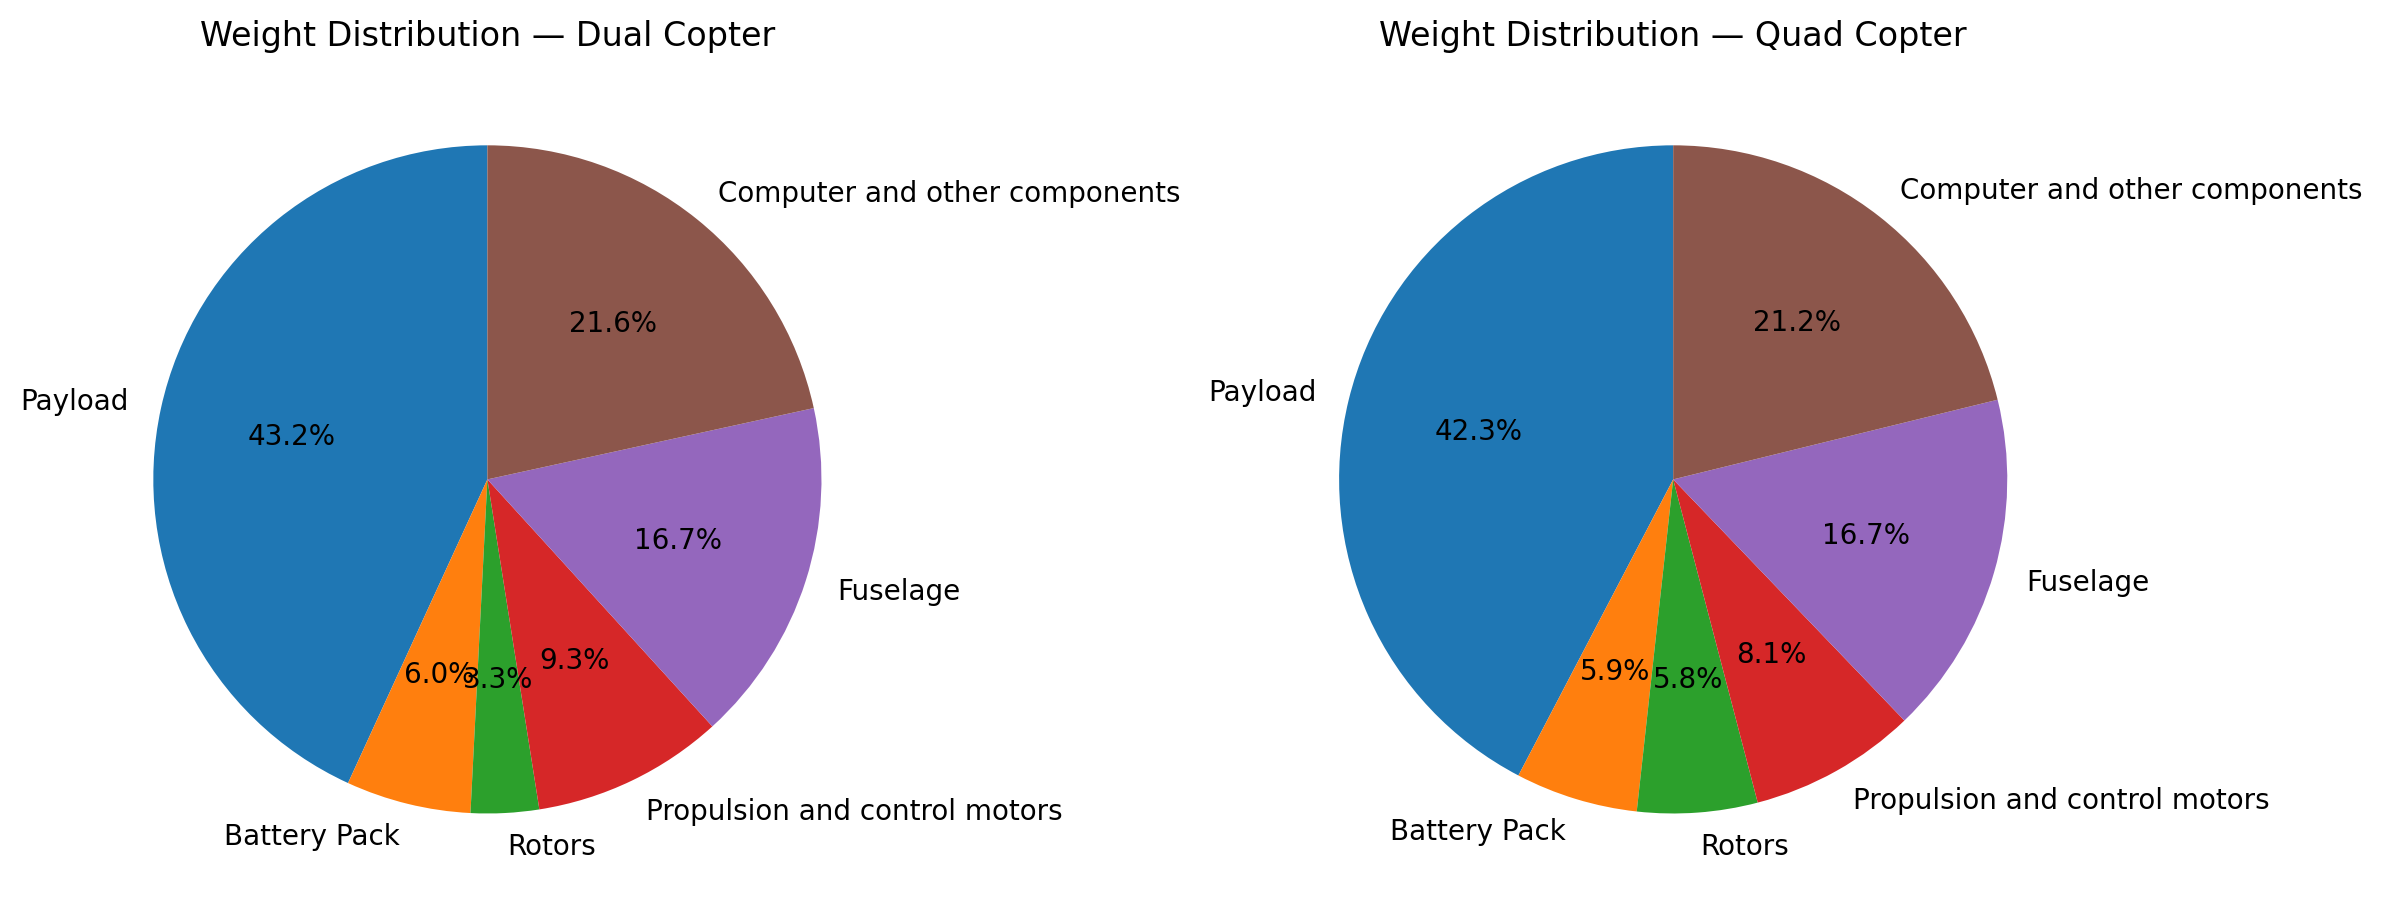
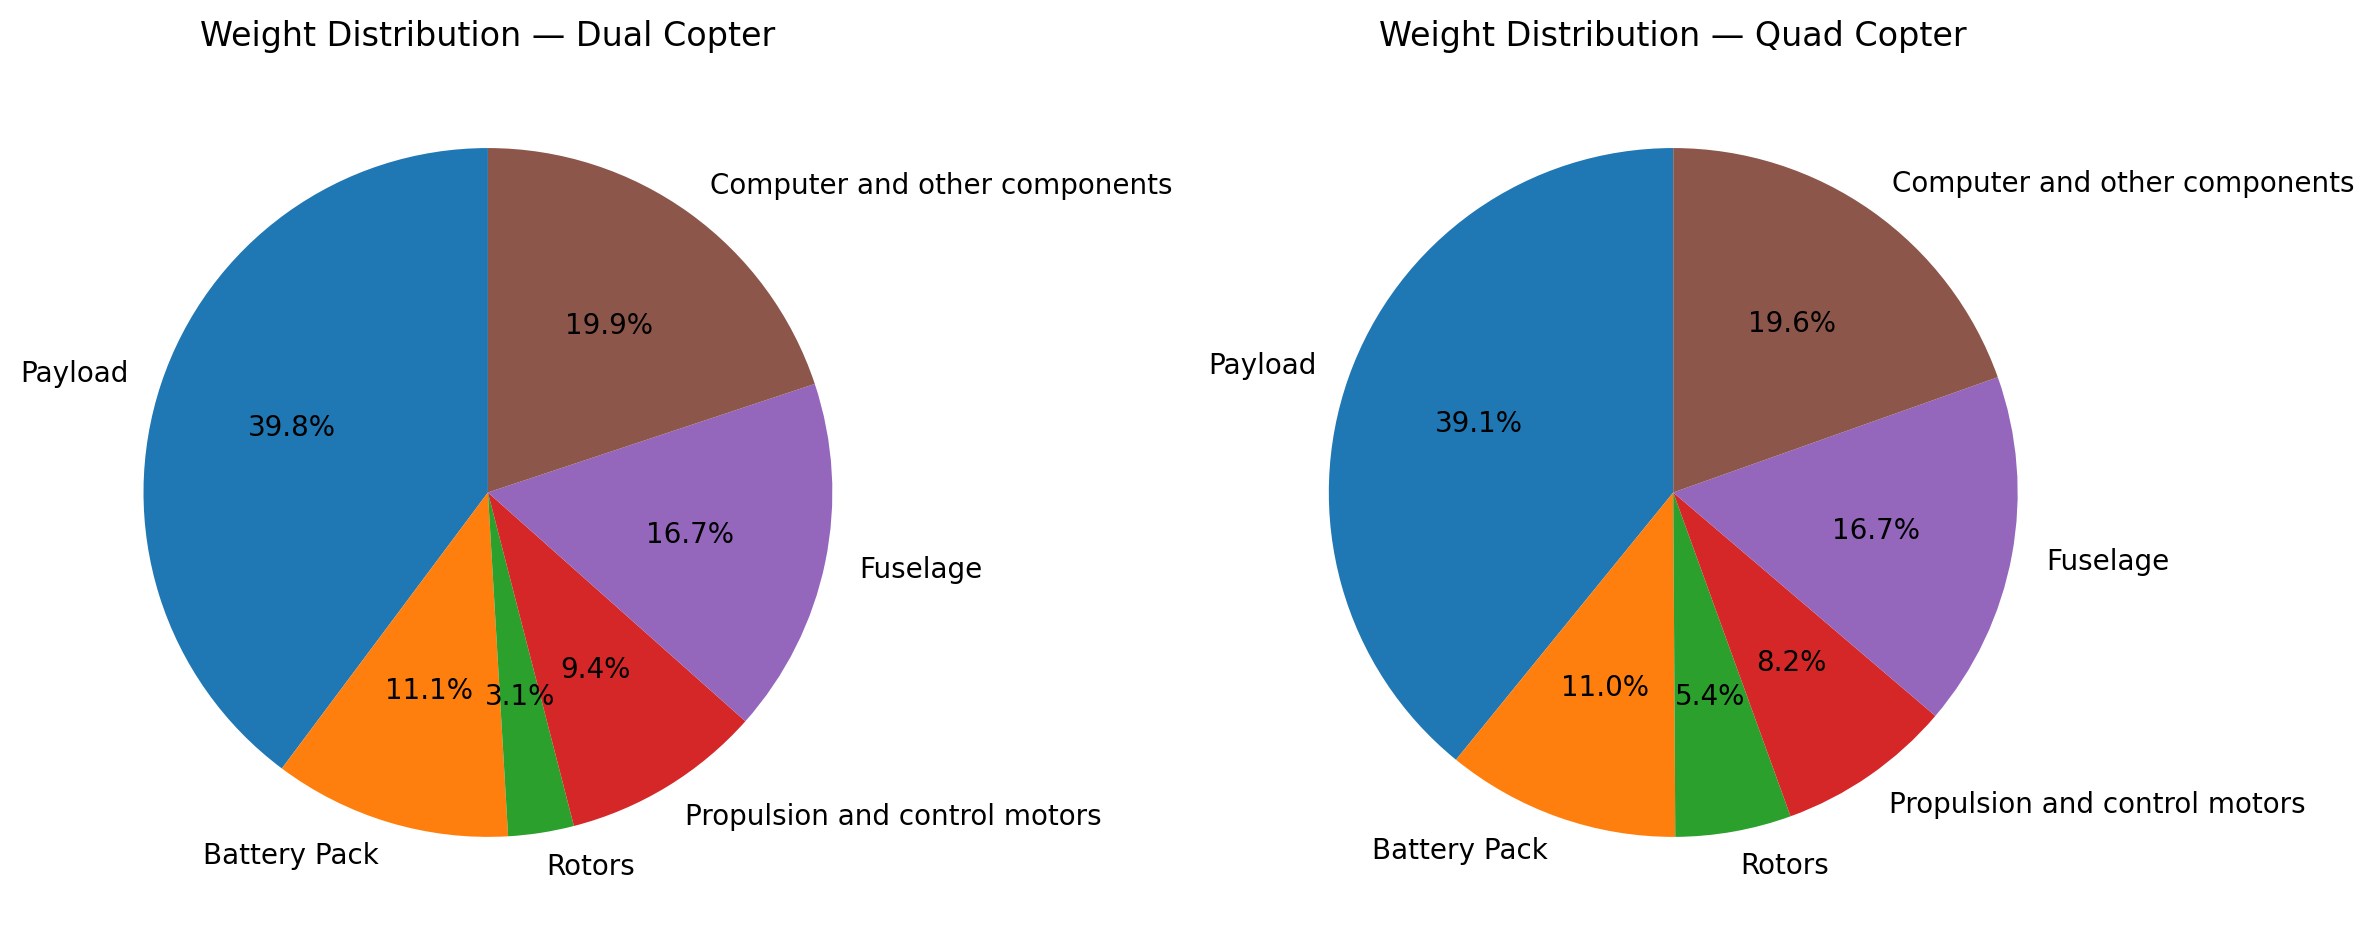
final commit

diff --git a/plot_funcs.py b/plot_funcs.py
@@ -69,28 +69,125 @@ def plot_big_grid_search(converged_drone_designs, N_blade_array, filename, fig_t
         plt.close()
 
 
+# def plot_grid_search(converged_drone_designs, N_blade_array, filename, fig_title):
+#     # Color map for left column: colored by number of blades
+#     blade_colors = {n: c for n, c in zip(N_blade_array, ['#1f77b4', '#ff7f0e', '#2ca02c', '#d62728'])}
+
+#     # Color map for right column: colored by rotor radius
+#     unique_radii = sorted(set(d.rotor_radius for d in converged_drone_designs if d is not None))
+#     radius_cmap = plt.colormaps['tab10'].resampled(max(len(unique_radii), 1))
+#     radius_colors = {r: radius_cmap(i) for i, r in enumerate(unique_radii)}
+
+#     metrics = [
+#         ("hover_power", "Hover Power [W]"),
+#         ("mass", "Total Mass [kg]"),
+#         ("total_hover_time", "Flight Time [s]"),
+#     ]
+
+#     for drone_name in ["Dual Copter", "Quad Copter"]:
+#         fig, ax = plt.subplots(3, 2, figsize=(14, 12))
+#         fig.suptitle(f"{fig_title} — {drone_name}", fontsize=14, fontweight="bold", y=1.02)
+
+#         subset = [d for d in converged_drone_designs if d is not None and d.name == drone_name]
+
+#         # LEFT COLUMN: x = rotor_radius, one curve per N_blades
+#         for n_blades in N_blade_array:
+#             series = sorted(
+#                 [d for d in subset if d.N_blades == n_blades],
+#                 key=lambda d: d.rotor_radius
+#             )
+#             if not series:
+#                 continue
+
+#             x = np.array([d.rotor_radius for d in series], dtype=float)
+#             color = blade_colors.get(n_blades, "gray")
+
+#             for row, (attr, _) in enumerate(metrics):
+#                 y = np.array([getattr(d, attr) for d in series], dtype=float)
+#                 ax[row, 0].plot(
+#                     x, y,
+#                     marker="o", linestyle="-", linewidth=1.5, markersize=4,
+#                     color=color
+#                 )
+
+#         # RIGHT COLUMN: x = N_blades, one curve per rotor_radius
+#         for r in unique_radii:
+#             series = sorted(
+#                 [d for d in subset if d.rotor_radius == r],
+#                 key=lambda d: d.N_blades
+#             )
+#             if not series:
+#                 continue
+
+#             x = np.array([d.N_blades for d in series], dtype=float)
+#             color = radius_colors.get(r, "gray")
+
+#             for row, (attr, _) in enumerate(metrics):
+#                 y = np.array([getattr(d, attr) for d in series], dtype=float)
+#                 ax[row, 1].plot(
+#                     x, y,
+#                     marker="o", linestyle="None", markersize=4,
+#                     color=color
+#                 )
+
+#         # Axis labels and grid
+#         for row, (_, ylabel) in enumerate(metrics):
+#             ax[row, 0].set_ylabel(ylabel)
+#             ax[row, 0].grid(True, alpha=0.3)
+#             ax[row, 1].grid(True, alpha=0.3)
+
+#         ax[2, 0].set_xlabel("Rotor Radius [m]")
+#         ax[2, 1].set_xlabel("Number of Blades")
+#         ax[0, 0].set_title("vs Rotor Radius (color = # blades)")
+#         ax[0, 1].set_title("vs Number of Blades (color = radius)")
+
+#         if unique_radii:
+#             ax[2, 0].set_xticks(np.linspace(min(unique_radii), max(unique_radii), min(10, len(unique_radii))))
+#         ax[2, 1].set_xticks(sorted(set(N_blade_array)))
+
+#         # Legends (left only)
+#         blade_handles = [
+#             mpatches.Patch(color=blade_colors[n], label=f"{n} blades")
+#             for n in N_blade_array
+#         ]
+
+#         fig.legend(
+#             handles=blade_handles,
+#             loc="upper left",
+#             ncol=len(N_blade_array),
+#             bbox_to_anchor=(0.08, 1.0),
+#             frameon=True,
+#             fontsize=10,
+#         )
+
+#         plt.tight_layout()
+#         plt.savefig(
+#             filename.replace(".png", f"_{drone_name.replace(' ', '_')}.png"),
+#             dpi=150,
+#             bbox_inches="tight"
+#         )
+#         plt.close()
+
 def plot_grid_search(converged_drone_designs, N_blade_array, filename, fig_title):
-    # Color map for left column: colored by number of blades
+    # Color map: colored by number of blades
     blade_colors = {n: c for n, c in zip(N_blade_array, ['#1f77b4', '#ff7f0e', '#2ca02c', '#d62728'])}
 
-    # Color map for right column: colored by rotor radius
     unique_radii = sorted(set(d.rotor_radius for d in converged_drone_designs if d is not None))
-    radius_cmap = plt.colormaps['tab10'].resampled(max(len(unique_radii), 1))
-    radius_colors = {r: radius_cmap(i) for i, r in enumerate(unique_radii)}
 
     metrics = [
-        ("hover_power", "Hover Power [W]"),
-        ("mass", "Total Mass [kg]"),
-        ("total_hover_time", "Flight Time [s]"),
+        ("hover_power",       "Hover Power [W]"),
+        ("mass",              "Total Mass [kg]"),
+        ("total_hover_time",  "Flight Time [s]"),
     ]
 
-    for drone_name in ["Dual Copter", "Quad Copter"]:
-        fig, ax = plt.subplots(3, 2, figsize=(14, 12))
-        fig.suptitle(f"{fig_title} — {drone_name}", fontsize=14, fontweight="bold", y=1.02)
+    drone_names = ["Dual Copter", "Quad Copter"]
 
+    fig, axes = plt.subplots(3, 2, figsize=(14, 12))
+    fig.suptitle(fig_title, fontsize=14, fontweight="bold", y=1.02)
+
+    for col, drone_name in enumerate(drone_names):
         subset = [d for d in converged_drone_designs if d is not None and d.name == drone_name]
 
-        # LEFT COLUMN: x = rotor_radius, one curve per N_blades
         for n_blades in N_blade_array:
             series = sorted(
                 [d for d in subset if d.N_blades == n_blades],
@@ -104,69 +201,44 @@ def plot_grid_search(converged_drone_designs, N_blade_array, filename, fig_title
 
             for row, (attr, _) in enumerate(metrics):
                 y = np.array([getattr(d, attr) for d in series], dtype=float)
-                ax[row, 0].plot(
+                axes[row, col].plot(
                     x, y,
                     marker="o", linestyle="-", linewidth=1.5, markersize=4,
                     color=color
                 )
 
-        # RIGHT COLUMN: x = N_blades, one curve per rotor_radius
-        for r in unique_radii:
-            series = sorted(
-                [d for d in subset if d.rotor_radius == r],
-                key=lambda d: d.N_blades
-            )
-            if not series:
-                continue
-
-            x = np.array([d.N_blades for d in series], dtype=float)
-            color = radius_colors.get(r, "gray")
-
-            for row, (attr, _) in enumerate(metrics):
-                y = np.array([getattr(d, attr) for d in series], dtype=float)
-                ax[row, 1].plot(
-                    x, y,
-                    marker="o", linestyle="None", markersize=4,
-                    color=color
-                )
-
         # Axis labels and grid
         for row, (_, ylabel) in enumerate(metrics):
-            ax[row, 0].set_ylabel(ylabel)
-            ax[row, 0].grid(True, alpha=0.3)
-            ax[row, 1].grid(True, alpha=0.3)
+            axes[row, col].grid(True, alpha=0.3)
+            if col == 0:
+                axes[row, col].set_ylabel(ylabel)
 
-        ax[2, 0].set_xlabel("Rotor Radius [m]")
-        ax[2, 1].set_xlabel("Number of Blades")
-        ax[0, 0].set_title("vs Rotor Radius (color = # blades)")
-        ax[0, 1].set_title("vs Number of Blades (color = radius)")
+        axes[2, col].set_xlabel("Rotor Radius [m]")
+        axes[0, col].set_title(drone_name)
 
         if unique_radii:
-            ax[2, 0].set_xticks(np.linspace(min(unique_radii), max(unique_radii), min(10, len(unique_radii))))
-        ax[2, 1].set_xticks(sorted(set(N_blade_array)))
+            axes[2, col].set_xticks(
+                np.linspace(min(unique_radii), max(unique_radii), min(10, len(unique_radii)))
+            )
 
-        # Legends (left only)
-        blade_handles = [
-            mpatches.Patch(color=blade_colors[n], label=f"{n} blades")
-            for n in N_blade_array
-        ]
+    # Shared legend at the top
+    blade_handles = [
+        mpatches.Patch(color=blade_colors[n], label=f"{n} blades")
+        for n in N_blade_array
+    ]
+    fig.legend(
+        handles=blade_handles,
+        loc="upper left",
+        ncol=len(N_blade_array),
+        bbox_to_anchor=(0.08, 1.0),
+        frameon=True,
+        fontsize=10,
+    )
 
-        fig.legend(
-            handles=blade_handles,
-            loc="upper left",
-            ncol=len(N_blade_array),
-            bbox_to_anchor=(0.08, 1.0),
-            frameon=True,
-            fontsize=10,
-        )
+    plt.tight_layout()
+    plt.savefig(filename, dpi=150, bbox_inches="tight")
+    plt.close()
 
-        plt.tight_layout()
-        plt.savefig(
-            filename.replace(".png", f"_{drone_name.replace(' ', '_')}.png"),
-            dpi=150,
-            bbox_inches="tight"
-        )
-        plt.close()
 
 def plot_narrow_grid_search(converged_drone_designs, filename, fig_title):
     unique_radii = sorted(set(d.rotor_radius for d in converged_drone_designs))

diff --git a/main.py b/main.py
@@ -61,12 +61,13 @@ do = {
     "Q2": True,
     "Q3": True,
     "Q4": True,
-    "Q5_MASTER_LOOP": True,
+    
+    "Q5_MASTER_LOOP": False,
     "Q5_analysis": True,
-    "Q5_twist_chord_dCt_dP": True,
+    "Q5_twist_chord_dCt_dP": False,
     "Q5_twist_chord_dCt_dP_comparison": True,
-    "Q6": True,
-    "Q6_2d_grid_search": True,   
+    "Q6": False,
+    "Q6_2d_grid_search": False,   
     }
 
 if do["Q1"]:
@@ -155,7 +156,7 @@ if do["Q2"]:
                     N_blades=N_blade,
                     N_rotors=2,
                     rpm=2800,
-                    N_batteries=6,
+                    N_batteries=12,
                     payload_mass=2.0,
                     aux_components_mass=1.0
                 )
@@ -168,7 +169,7 @@ if do["Q2"]:
                     N_blades=N_blade,
                     N_rotors=4,
                     rpm=2800,
-                    N_batteries=6,
+                    N_batteries=12,
                     payload_mass=2.0,
                     aux_components_mass=1.0
                 )
@@ -177,7 +178,15 @@ if do["Q2"]:
                 
                 for drone in drone_designs:
                     # solve for the total power and mass of the drone designs iteratively (since power depends on mass and mass depends on power)
+                    # manipulate battery storage:
+                    # battery weight: 500g
+                    # battery capacity: 20Wh
+                    # drone.reference.mass_per_battery = 500 / drone.N_batteries  # update mass per battery
+                    # drone.battery_capacity_per_battery = 20 / drone.N_batteries  # update capacity per battery
                     result = drone.solve_mass_power(P_initial, planet)
+                    print(drone.total_battery_capacity)
+                    # print(drone.battery_mass)
+                    # print(drone.battery_capacity_per_battery)
                     # result = drone.compute_planet_performance(planet)
 
                     if result is not None:
@@ -218,9 +227,9 @@ if do["Q2"]:
     chord_opt_q5 = np.array(C_MEAN, dtype=float) * np.ones(NO_BLADE_ELEMENTS)  # using the mean chord from the NASA data for the chord distribution in Q2 grid search
     n_iter = 100
     # N_blades_array = np.array([2, 3, 4, 5])
-    N_blades_array = np.array([2, 3])
-    min_radius = 0.15
-    max_radius = 0.8
+    N_blades_array = np.array([2, 3, 4, 5])
+    min_radius = 0.3
+    max_radius = 1.2
     diameter_array = np.linspace(min_radius*2, max_radius*2, n_iter)
                 
     dualCopter, quadCopter, converged_drone_designs = grid_search_q2(diameters=diameter_array, N_blades=N_blades_array, chord=chord_opt_q5, planet=mars, reference_drone=ingenuity)
